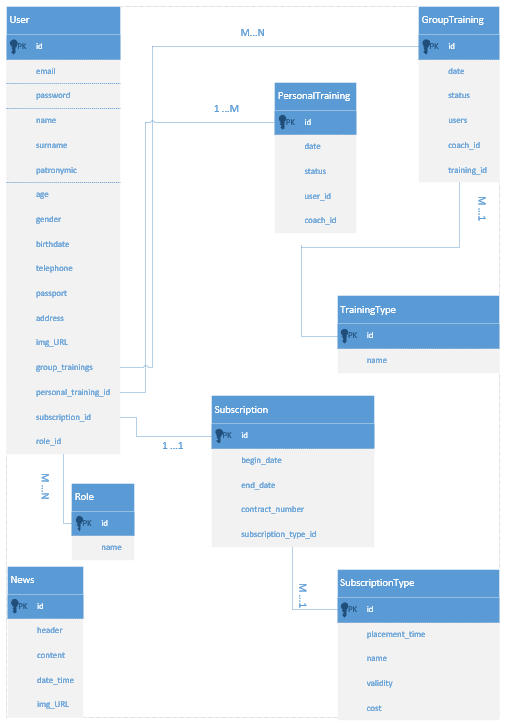
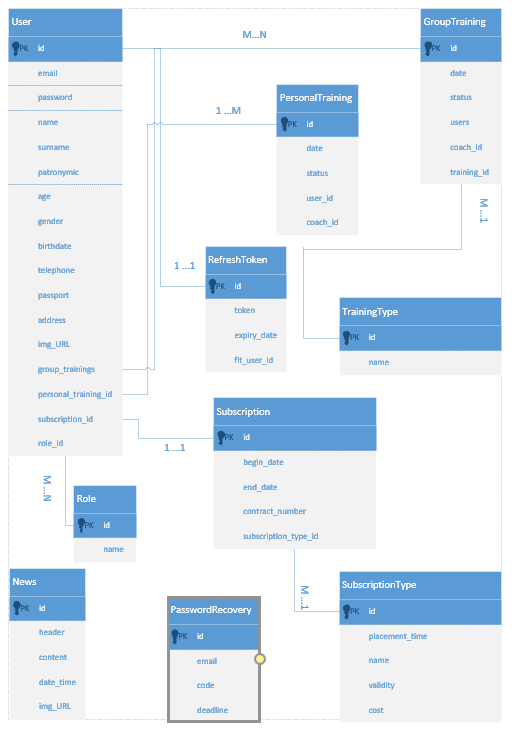
Updated database info

diff --git a/docs/database/README.md b/docs/database/README.md
@@ -24,7 +24,7 @@ Role table. Each role has id and name. It has many to many connection between us
 Represents user subscription info. It has one to one connection between user. Also user has the same subscription id as his own id (primary key connection).
 It contains begin and end date, contract nubmer and subscription type id. It has many to one connection between subscription type table. 
 
-## SubscriptionType
+## Subscription type
 
 ![subscription_type](subscription_type.png)
 
@@ -42,7 +42,7 @@ Contains info about coach who will conduct a training, user who will visit that 
 
 The same as personal training but many users can sign for that and also it has connection between training table.
 
-## TrainingType
+## Training type
 
 ![training_type](training_type.png)
 
@@ -53,6 +53,23 @@ Just info about training.
 ![news](news.png)
 
 Info about news. Time when it was published. Its image URL.
+
+## Refresh token
+
+![refresh_token](refresh_token.png)
+
+Stores refresh token of every logged user. Used to update access token.
+Every user can only have one refresh token. It has expire data - date
+when our refresh token will become invalid and would not refresh our
+access token.
+
+## Password recovery
+
+![password_recovery](password_recovery.png)
+
+Stores verification codes for password recovery.
+It also has expire date - date when our verification code 
+would not recover our password
 
 ## Database
 ![database](database.png)
